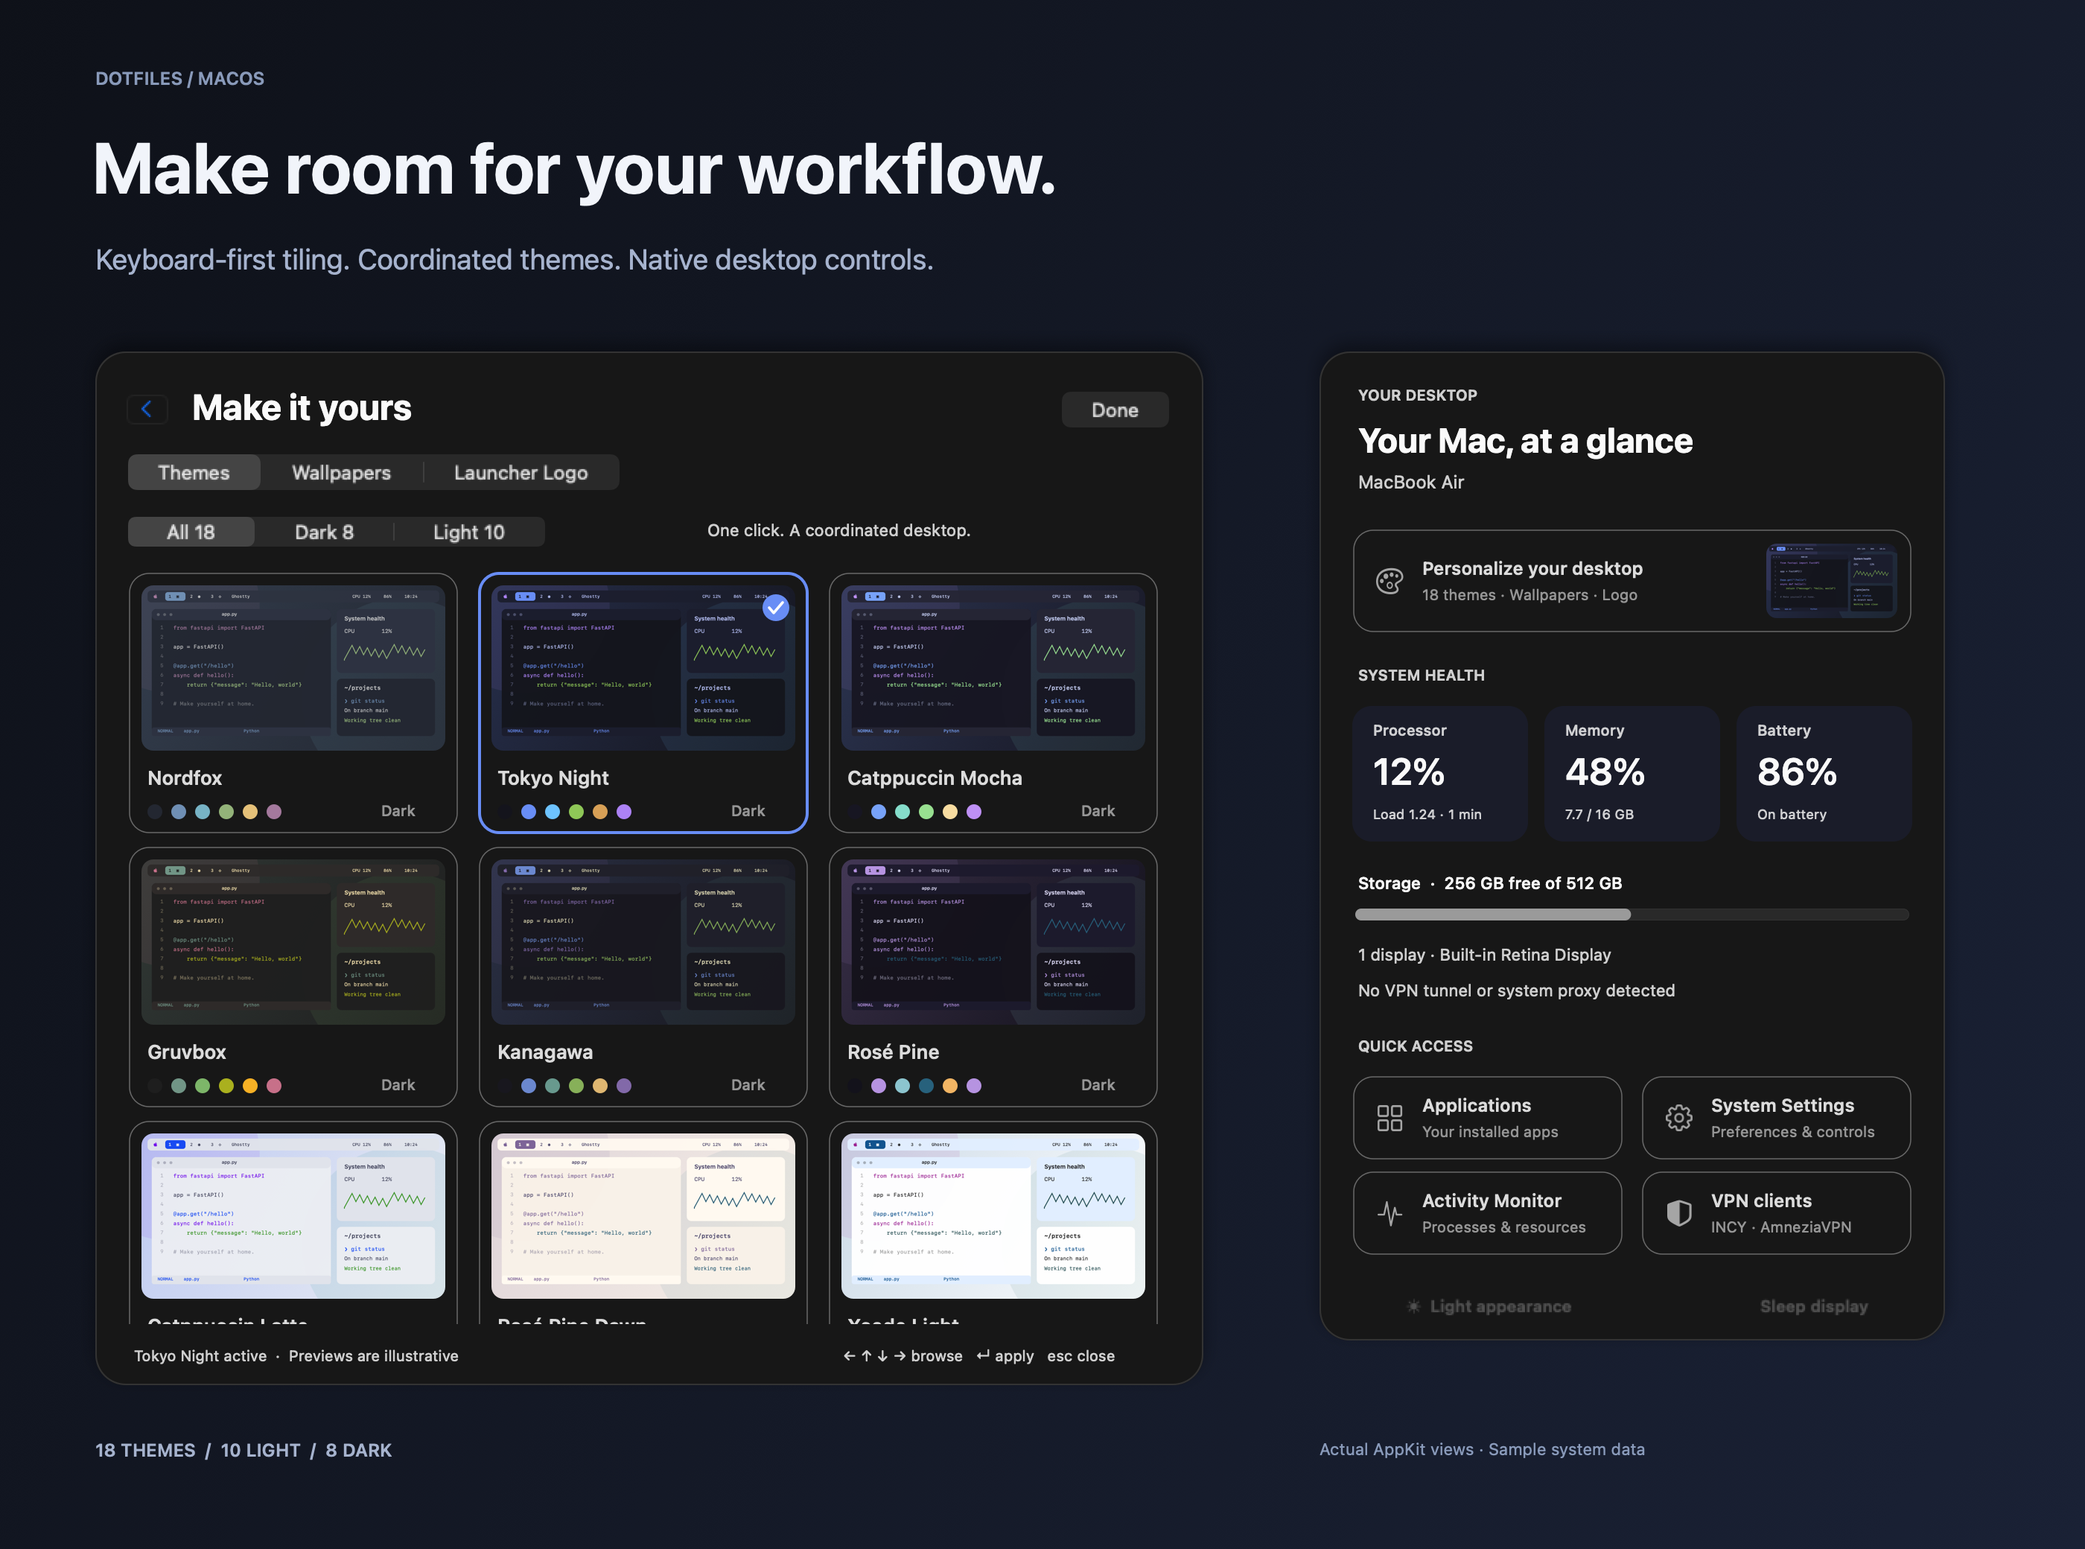
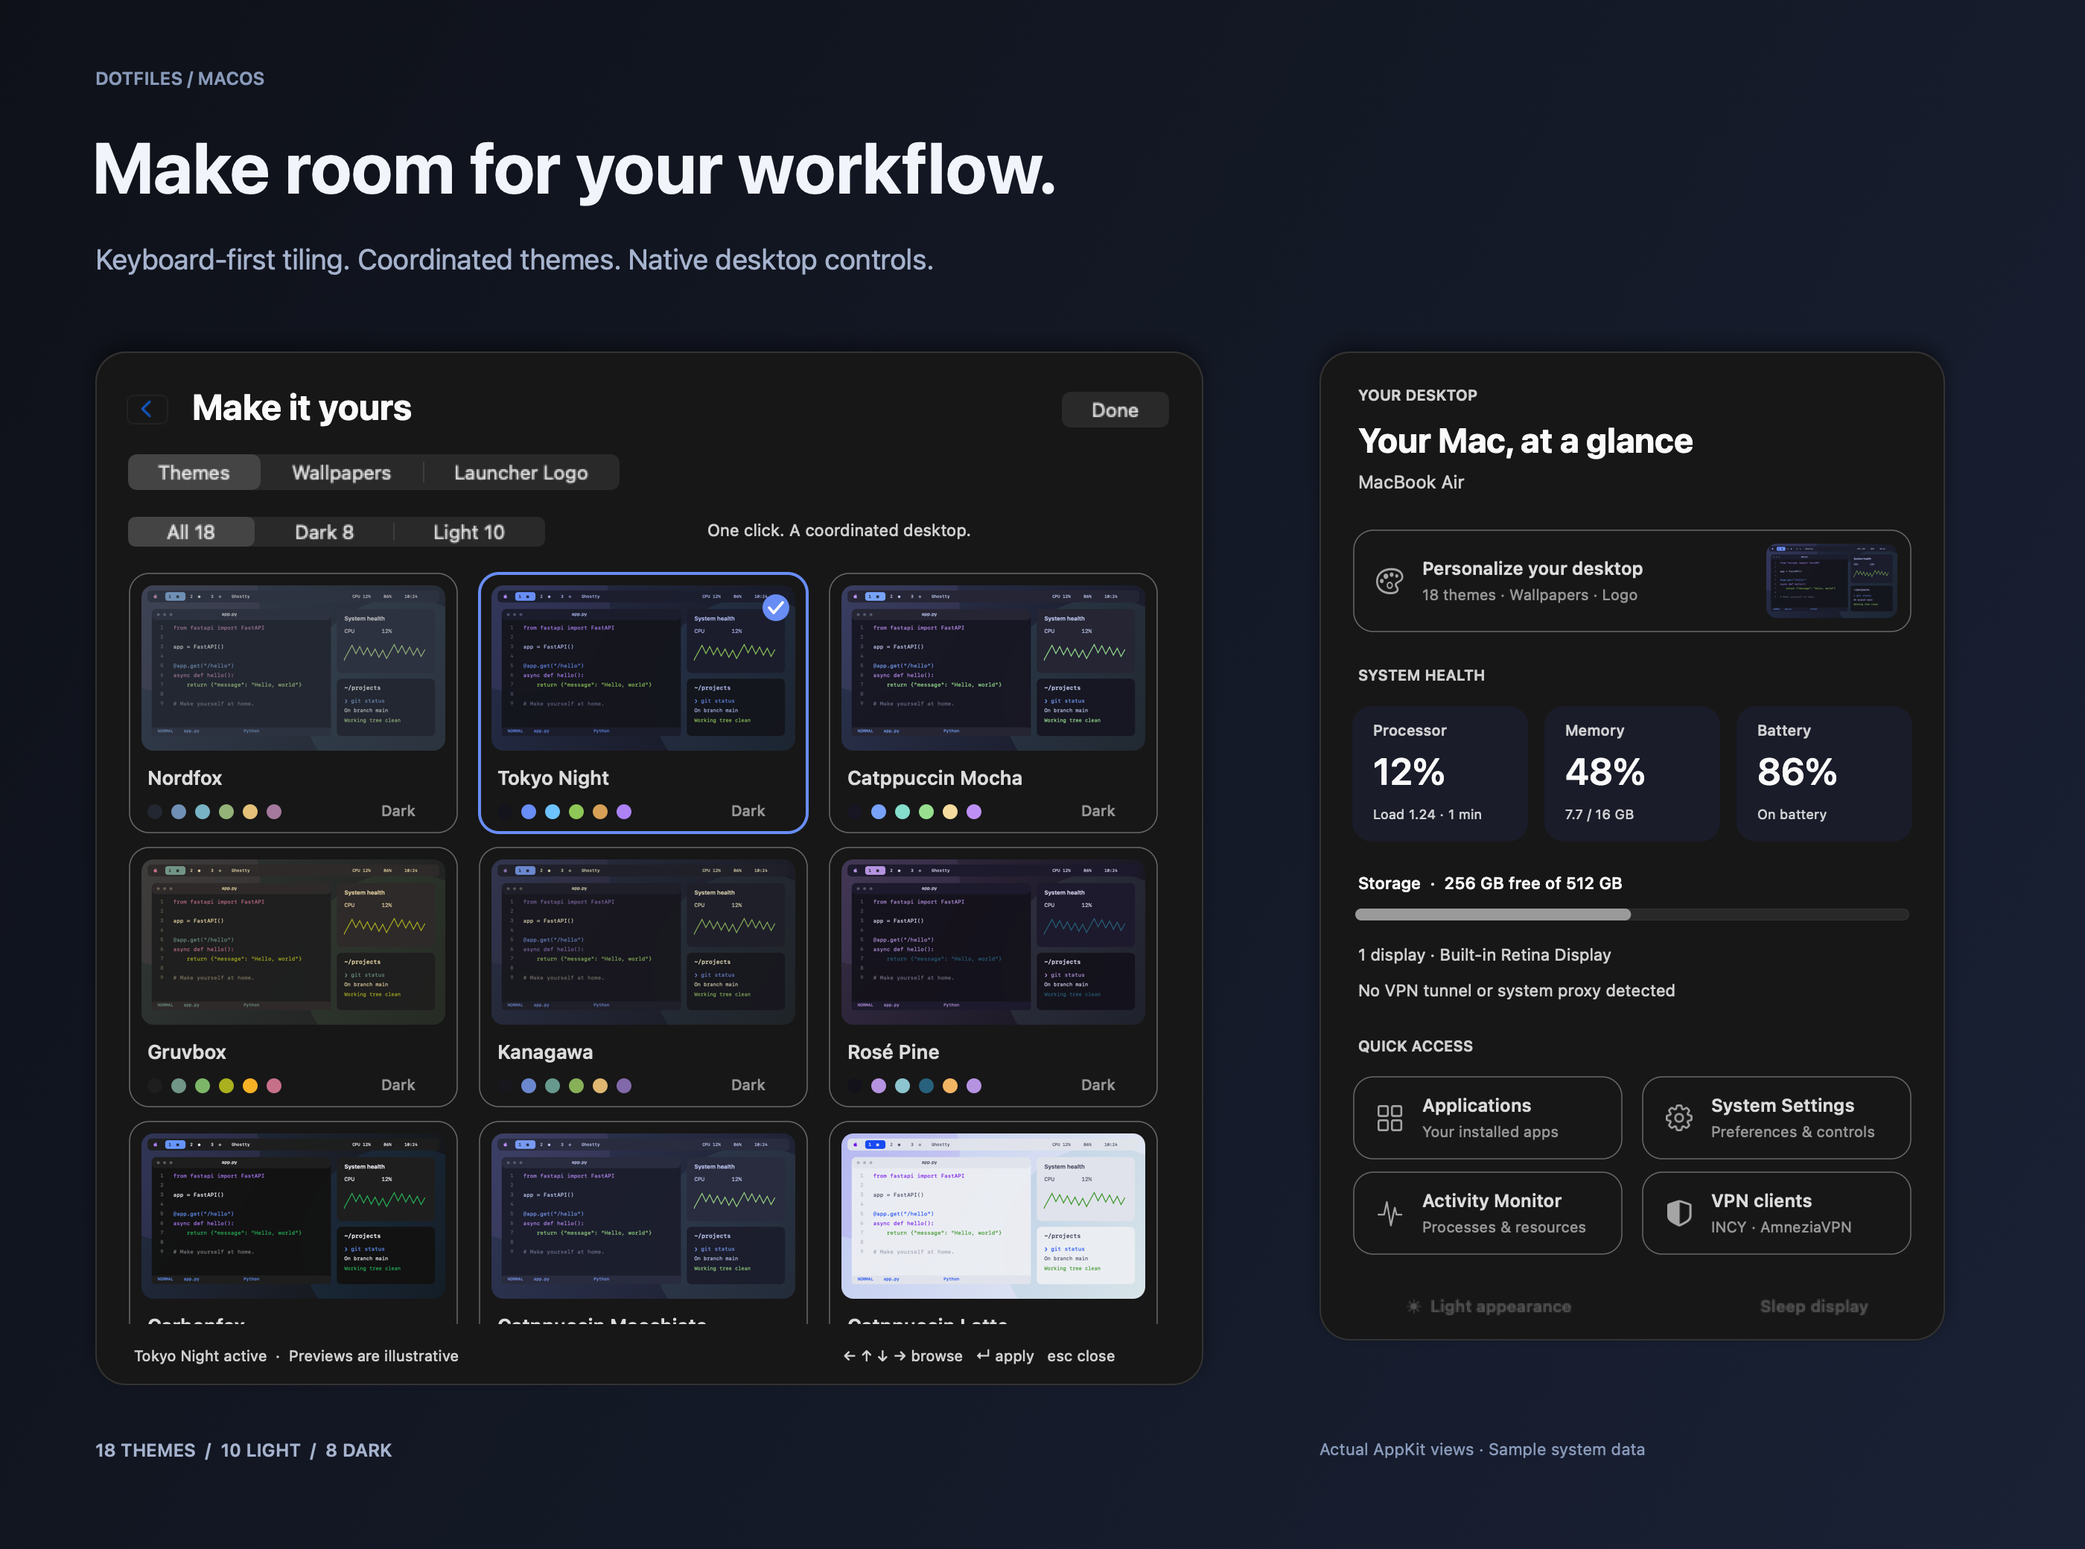
fix: group themes and persist appearance selections

Changed region(s): [[0.0621, 0.7188, 0.4039, 0.8438]]

diff --git a/sketchybar/helpers/tests/theme_selection_test.m b/sketchybar/helpers/tests/theme_selection_test.m
@@ -1,0 +1,55 @@
+// GPL-3.0. Isolated preference tests. Never changes the system appearance.
+#include "../theme_catalog.h"
+
+static void check(BOOL condition, NSString *message) {
+  if (!condition) { fprintf(stderr, "FAIL: %s\n", message.UTF8String); exit(1); }
+}
+
+int main(int argc, char **argv) {
+  @autoreleasepool {
+    if (argc != 3) return 2;
+    NSArray *catalog = rice_themes(@(argv[1]));
+    check(catalog != nil, @"Catalog loads");
+    NSString *fixture = @(argv[2]);
+    NSString *directory = [fixture stringByAppendingPathComponent:@"sketchybar"];
+    NSMutableDictionary *selection = rice_theme_selection(directory, catalog);
+    check([selection isEqual:@{@"dark":@"nordfox", @"light":@"xcode-light"}], @"First-run defaults");
+
+    check(rice_remember_theme(directory, catalog, selection, @"kanagawa"), @"Pick a dark theme");
+    check([selection[@"light"] isEqual:@"xcode-light"], @"Dark choice preserves light choice");
+    check(rice_remember_theme(directory, catalog, selection, @"everforest-light"), @"Pick a light theme");
+    selection = rice_theme_selection(directory, catalog); // New process/restart reads disk.
+    check([selection isEqual:@{@"dark":@"kanagawa", @"light":@"everforest-light"}], @"Both appearances restore after restart");
+    check(rice_remember_theme(directory, catalog, selection, @"carbonfox"), @"Replace only the last dark choice");
+    selection = rice_theme_selection(directory, catalog);
+    check([selection isEqual:@{@"dark":@"carbonfox", @"light":@"everforest-light"}], @"Last choice wins independently per appearance");
+    check([rice_theme(catalog, selection[@"dark"])[@"mode"] isEqual:@"dark"] &&
+      [rice_theme(catalog, selection[@"light"])[@"mode"] isEqual:@"light"], @"Appearance switches resolve the correct saved theme");
+
+    NSData *saved = [NSData dataWithContentsOfFile:rice_selection_path(directory)];
+    NSDictionary *before = [selection copy];
+    check(!rice_remember_theme(directory, catalog, selection, @"unknown-theme"), @"Reject missing themes");
+    check([selection isEqual:before] && [[NSData dataWithContentsOfFile:rice_selection_path(directory)] isEqual:saved], @"Invalid choices leave memory and disk unchanged");
+    NSString *blocked = [fixture stringByAppendingPathComponent:@"blocked"];
+    [@"Not a directory" writeToFile:blocked atomically:YES encoding:NSUTF8StringEncoding error:NULL];
+    check(!rice_remember_theme([blocked stringByAppendingPathComponent:@"sketchybar"], catalog, selection, @"tokyo-night"), @"Report preference write failures");
+    check([selection isEqual:before], @"Failed writes preserve in-memory preferences");
+
+    // Existing legacy choices migrate without changing the other appearance.
+    NSString *legacy = [fixture stringByAppendingPathComponent:@"legacy/sketchybar"];
+    NSString *legacyPath = [legacy stringByAppendingPathComponent:@"themes/selection.json"];
+    [NSFileManager.defaultManager createDirectoryAtPath:legacyPath.stringByDeletingLastPathComponent
+      withIntermediateDirectories:YES attributes:nil error:NULL];
+    [@"{\"dark\":\"rose-pine\",\"light\":\"dayfox\"}" writeToFile:legacyPath atomically:YES encoding:NSUTF8StringEncoding error:NULL];
+    NSMutableDictionary *migrated = rice_theme_selection(legacy, catalog);
+    check([migrated isEqual:@{@"dark":@"rose-pine", @"light":@"dayfox"}], @"Load legacy saved pair");
+    check(rice_remember_theme(legacy, catalog, migrated, @"github-light"), @"Save in the private preference location");
+    check([rice_theme_selection(legacy, catalog) isEqual:@{@"dark":@"rose-pine", @"light":@"github-light"}], @"New private preferences take precedence over legacy choices");
+
+    [@"{\"dark\":\"github-light\",\"light\":\"missing\"}" writeToFile:rice_selection_path(directory)
+      atomically:YES encoding:NSUTF8StringEncoding error:NULL];
+    check([rice_theme_selection(directory, catalog) isEqual:@{@"dark":@"nordfox", @"light":@"xcode-light"}], @"Removed and wrong-mode choices fall back safely");
+    puts("PASS: independent theme memory, restart restoration, legacy migration and write failures");
+  }
+  return 0;
+}

diff --git a/sketchybar/helpers/native_theme.m b/sketchybar/helpers/native_theme.m
@@ -101,9 +101,6 @@ static void sync_theme(BOOL force) {
     [task launchAndReturnError:NULL];
   }
   committed = theme[@"id"];
-  NSString *preferences = rice_selection_path(directory);
-  [NSFileManager.defaultManager createDirectoryAtPath:[preferences stringByDeletingLastPathComponent] withIntermediateDirectories:YES attributes:nil error:NULL];
-  write_json(preferences, selection);
   notify(@"RiceThemeDidChange", @{@"id":committed, @"mode":mode});
   fprintf(stderr, "Theme committed: %s (%s)\n", committed.UTF8String, mode.UTF8String);
 }
@@ -123,13 +120,19 @@ static void select_theme(void) {
   [selectionLock unlock];
   NSDictionary *theme = rice_theme(catalog, identifier);
   if (!theme) return;
+  NSString *old = selection[theme[@"mode"]];
+  // Save the per-appearance choice at selection time, not after bar/terminal
+  // updates. A service restart or missed appearance notification cannot lose it.
+  if (!rice_remember_theme(directory, catalog, selection, identifier)) {
+    notify(@"RiceThemeApplyFailed", @{@"message":@"Could not save your theme choice. Check the rice folder permissions."}); return;
+  }
+  if (![system_mode() isEqual:theme[@"mode"]] && !execute([theme[@"mode"] isEqual:@"dark"] ? darkScript : lightScript)) {
+    if (!rice_remember_theme(directory, catalog, selection, old))
+      notify(@"RiceThemeApplyFailed", @{@"message":@"Could not restore the previous theme preference."});
+    return;
+  }
   if ([identifier isEqual:committed]) {
     notify(@"RiceThemeDidChange", @{@"id":committed, @"mode":theme[@"mode"]}); return;
-  }
-  NSString *old = selection[theme[@"mode"]];
-  selection[theme[@"mode"]] = identifier;
-  if (![system_mode() isEqual:theme[@"mode"]] && !execute([theme[@"mode"] isEqual:@"dark"] ? darkScript : lightScript)) {
-    selection[theme[@"mode"]] = old; return;
   }
   // Same-appearance selections do not emit a macOS appearance notification.
   sync_theme(NO);
@@ -216,7 +219,9 @@ int main(int argc, char **argv) {
             [selectionLock lock]; pendingSelection = @(env_get_value_for_key(event, "ID")); [selectionLock unlock];
           }
           dispatch_async(dispatch_get_main_queue(), ^{
-            if ([sender isEqual:@"--toggle"]) { if (atomic_exchange(&requests, 0) & 1) execute(toggleScript); }
+            if ([sender isEqual:@"--toggle"]) {
+              if ((atomic_exchange(&requests, 0) & 1) && execute(toggleScript)) sync_theme(NO);
+            }
             else if ([sender isEqual:@"--select"]) select_theme();
             else if ([sender isEqual:@"--rebind"] && pid > 1) { barPID = pid; committed = nil; }
             else sync_theme([sender isEqual:@"--sync"]);

diff --git a/sketchybar/helpers/theme_catalog.h b/sketchybar/helpers/theme_catalog.h
@@ -30,7 +30,13 @@ static inline NSArray<NSDictionary *> *rice_themes(NSString *directory) {
     for (NSString *key in row[@"overrides"])
       if (!rice_matches(key, @"^[A-Z_]+$") || !rice_matches(row[@"overrides"][key], @"^0x[0-9a-fA-F]{8}$")) return nil;
   }
-  return [ids containsObject:@"nordfox"] && [ids containsObject:@"xcode-light"] ? rows : nil;
+  if (![ids containsObject:@"nordfox"] || ![ids containsObject:@"xcode-light"]) return nil;
+  // Keep authored order within each appearance, even when new themes are
+  // appended to the catalog. The All gallery always has one dark/light boundary.
+  NSMutableArray *grouped = [NSMutableArray arrayWithCapacity:[rows count]];
+  for (NSString *mode in @[@"dark", @"light"])
+    for (NSDictionary *row in rows) if ([row[@"mode"] isEqual:mode]) [grouped addObject:row];
+  return grouped;
 }
 
 static inline NSDictionary *rice_theme(NSArray *catalog, NSString *identifier) {
@@ -80,6 +86,22 @@ static inline NSMutableDictionary *rice_theme_selection(NSString *directory, NSA
   for (NSString *mode in @[@"dark", @"light"])
     if ([saved isKindOfClass:NSDictionary.class] && [rice_theme(catalog, saved[mode])[@"mode"] isEqual:mode]) selection[mode] = saved[mode];
   return selection;
+}
+
+static inline BOOL rice_remember_theme(NSString *directory, NSArray *catalog,
+    NSMutableDictionary *selection, NSString *identifier) {
+  NSDictionary *theme = rice_theme(catalog, identifier);
+  if (!theme) return NO;
+  NSMutableDictionary *next = [selection mutableCopy];
+  next[theme[@"mode"]] = identifier;
+  NSData *data = [NSJSONSerialization dataWithJSONObject:next options:NSJSONWritingSortedKeys error:NULL];
+  NSString *path = rice_selection_path(directory);
+  if (!data || ![NSFileManager.defaultManager createDirectoryAtPath:path.stringByDeletingLastPathComponent
+      withIntermediateDirectories:YES attributes:nil error:NULL]) return NO;
+  if (![[NSData dataWithContentsOfFile:path] isEqual:data] && ![data writeToFile:path atomically:YES]) return NO;
+  // Failed writes must not leave an in-memory choice that disappears on restart.
+  [selection setDictionary:next];
+  return YES;
 }
 
 static inline NSString *rice_theme_state_path(void) {

diff --git a/sketchybar/helpers/tests/theme_live_test.py b/sketchybar/helpers/tests/theme_live_test.py
@@ -32,6 +32,36 @@ def wait_for(predicate, timeout=8):
 
 @unittest.skipUnless(os.environ.get("RICE_THEME_LIVE_TESTS") == "1", "opt-in appearance test")
 class ThemeLiveTests(unittest.TestCase):
+    def test_appearance_toggle_restores_both_remembered_themes(self):
+        state_path = Path(f"/tmp/rice_theme_{os.getuid()}.json")
+        preferences = ROOT / "rice/theme-selection.json"
+        saved = json.loads(preferences.read_text())
+        original = json.loads(state_path.read_text())["id"]
+        catalog = {row["id"]: row for row in json.loads(subprocess.check_output([THEME, "--list"]))}
+
+        def matching(identifier):
+            if json.loads(state_path.read_text())["id"] != identifier:
+                return False
+            palette = json.loads(subprocess.check_output([THEME, "--plan", identifier]))
+            actual = json.loads(subprocess.check_output([BAR, "--query", "bar"]))
+            return actual["color"] == palette["BAR_COLOR"] and (ROOT / "ghostty/theme-mode").read_text() == f'theme = {catalog[identifier]["ghostty"]}\n'
+
+        try:
+            for mode in ("dark", "light"):
+                subprocess.run([THEME, "--select", saved[mode]], check=True)
+                wait_for(lambda: matching(saved[mode]))
+            for mode in ("dark", "light"):
+                subprocess.run([THEME, "--toggle"], check=True)
+                wait_for(lambda: matching(saved[mode]))
+                self.assertEqual(json.loads(preferences.read_text()), saved)
+            # --sync reloads preferences from disk, as a fresh service does.
+            subprocess.run([THEME, "--sync"], check=True)
+            wait_for(lambda: matching(saved["light"]))
+        finally:
+            subprocess.run([THEME, "--select", original], check=True)
+            wait_for(lambda: matching(original))
+        self.assertEqual(json.loads(preferences.read_text()), saved)
+
     def test_all_themes_sync_bar_editor_terminal_and_gallery(self):
         state_path = Path(f"/tmp/rice_theme_{os.getuid()}.json")
         preferences = ROOT / "rice/theme-selection.json"

diff --git a/sketchybar/helpers/tests/theme_catalog_test.py b/sketchybar/helpers/tests/theme_catalog_test.py
@@ -3,6 +3,7 @@ import json
 import os
 from pathlib import Path
 import subprocess
+import tempfile
 import unittest
 
 ROOT = Path(__file__).resolve().parents[3]
@@ -12,6 +13,22 @@ GHOSTTY = Path("/Applications/Ghostty.app/Contents/Resources/ghostty/themes")
 
 
 class ThemeCatalogTests(unittest.TestCase):
+    def test_all_themes_are_stably_grouped_dark_then_light(self):
+        listed = json.loads(subprocess.check_output([THEME, "--list"]))
+        expected = [row["id"] for mode in ("dark", "light")
+                    for row in CATALOG if row["mode"] == mode]
+        self.assertEqual([row["id"] for row in listed], expected)
+
+    def test_independent_theme_memory_survives_restart_and_write_failures(self):
+        # Compile the production persistence helpers against isolated fixtures.
+        # No theme service, appearance change, or real preference file is used.
+        with tempfile.TemporaryDirectory(prefix="rice-selection-test-", dir="/private/tmp") as temporary:
+            executable = Path(temporary) / "selection_test"
+            subprocess.run(["xcrun", "clang", "-O2", "-Wall", "-Wextra", "-fobjc-arc",
+                            str(Path(__file__).with_name("theme_selection_test.m")),
+                            "-framework", "Foundation", "-o", str(executable)], check=True)
+            subprocess.run([executable, ROOT / "sketchybar", temporary], check=True)
+
     def test_expanded_catalog_prioritizes_light_themes(self):
         self.assertEqual(len({row["id"] for row in CATALOG}), len(CATALOG))
         self.assertGreaterEqual(len(CATALOG), 18)
@@ -45,7 +62,6 @@ class ThemeCatalogTests(unittest.TestCase):
         self.assertEqual(subprocess.check_output(["git", "-C", ROOT, "ls-files", "--", "rice"], text=True), "")
 
     def test_malformed_catalog_is_rejected(self):
-        import tempfile
         with tempfile.TemporaryDirectory() as directory:
             path = Path(directory) / "themes"
             path.mkdir()

diff --git a/sketchybar/helpers/tests/panel_view_test.m b/sketchybar/helpers/tests/panel_view_test.m
@@ -65,6 +65,11 @@ int main(void) {
     controller.snapshot = YES;
     [controller show:@"themes"];
     check(controller.cards.count == controller.catalog.count, @"All filter shows every theme");
+    BOOL reachedLight = NO;
+    for (RiceButton *card in controller.cards) {
+      if ([card.theme[@"mode"] isEqual:@"light"]) reachedLight = YES;
+      else check(!reachedLight, @"All gallery groups every dark theme before the light themes");
+    }
     NSUInteger chosen = 0;
     for (RiceButton *card in controller.cards) chosen += card.chosen;
     check(chosen == 1, @"Exactly one active theme");

diff --git a/docs/PERSONALIZATION.md b/docs/PERSONALIZATION.md
@@ -15,6 +15,11 @@ The gallery remembers one light and one dark theme. `Ctrl + Left Option + Cmd + 
 switches between those selections. Changes made through macOS Appearance settings
 use the same coordinator; no terminal restart is needed.
 
+**All** groups dark themes first, then light themes, preserving the order within
+each group. **Dark** and **Light** filter the gallery without changing appearance.
+Each chosen theme is saved immediately for its own appearance, independently
+of the other choice, and restored after service reloads or a restart.
+
 | Light · 10 | Dark · 8 |
 | --- | --- |
 | Catppuccin Latte | Nordfox |
